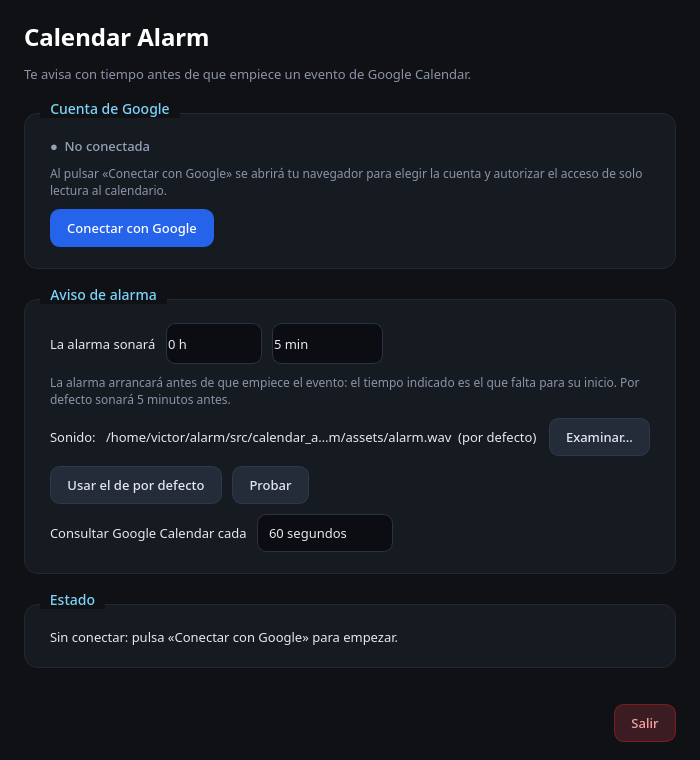
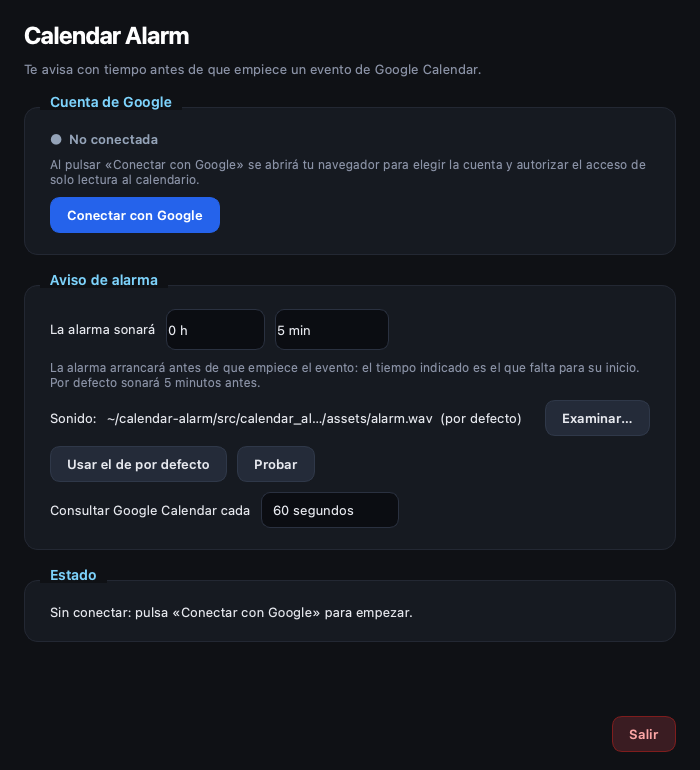
Preparar el repositorio para GitHub
- .gitattributes: finales de línea LF normalizados y binarios protegidos.
- CONTRIBUTING.md: entorno, tests (incluida mutación) y reglas para PRs.
- CHANGELOG.md con los cambios desde la 1.0.0.
- docs/main.png regenerada con la interfaz actual y sin rutas personales.
- BUILD.md: instrucciones para subir un repositorio que ya existe.
- README.md: enlaces a CONTRIBUTING y CHANGELOG.

diff --git a/CONTRIBUTING.md b/CONTRIBUTING.md
@@ -1,0 +1,49 @@
+# Contribuir a Calendar Alarm
+
+## Preparar el entorno
+
+Necesitas [uv](https://docs.astral.sh/uv/) (descarga Python 3.13 si no lo
+tienes):
+
+```bash
+uv sync                      # entorno + dependencias de desarrollo
+uv run calendar-alarm        # arrancar la app
+```
+
+Para conectar con Google en desarrollo necesitas un cliente OAuth de tipo
+*Aplicación de escritorio* guardado como `client_secret.json` en la raíz (está
+en `.gitignore`):
+
+```bash
+CALENDAR_ALARM_GOOGLE_CLIENT_FILE=client_secret.json uv run calendar-alarm
+```
+
+Usa `CALENDAR_ALARM_CONFIG_DIR=/tmp/calendar-alarm-dev` si no quieres tocar tu
+configuración ni tu sesión reales.
+
+## Antes de abrir un pull request
+
+```bash
+uv run ruff check src tests scripts packaging
+uv run ruff format src tests scripts packaging
+uv run pytest                # debe pasar entero
+uv run mutmut run            # si cambias lógica (Linux/macOS)
+```
+
+- Todo cambio de comportamiento lleva su test. La lógica sin interfaz va en
+  `tests/unit/`; las ventanas, en `tests/ui/`; el empaquetado, en
+  `tests/packaging/`. El apartado «Tests» del [README](README.md) explica cada
+  tipo.
+- Si `mutmut results` muestra un mutante nuevo que sobrevive, añade un test que
+  lo detecte o explica en el PR por qué es equivalente.
+- La app debe seguir funcionando en **Windows, Linux y macOS**: el workflow
+  `Tests` lo comprueba en los tres sistemas.
+- Si cambias el empaquetado, prueba `python packaging/build.py` en tu sistema y
+  lanza **Build executables** desde Actions para los demás.
+- Actualiza `README.md`, `BUILD.md` y `CHANGELOG.md` cuando cambie algo visible.
+
+## Seguridad
+
+Nunca subas `client_secret.json`, `token.json` ni `google_client.json`. Si
+encuentras un problema de seguridad, no abras un issue público: escribe al
+responsable del repositorio.

diff --git a/CHANGELOG.md b/CHANGELOG.md
@@ -1,0 +1,39 @@
+# Changelog
+
+Formato basado en [Keep a Changelog](https://keepachangelog.com/es-ES/1.1.0/).
+
+## [Sin publicar]
+
+### Añadido
+- Botón **Cancelar** mientras se espera la autorización de Google en el
+  navegador; la denegación del permiso se detecta al momento.
+- Suite de tests: unitarios, interfaz, integración, empaquetado y mutación
+  (`mutmut`), ejecutada en Linux, Windows y macOS por el workflow `Tests`.
+- Variable `CALENDAR_ALARM_CONFIG_DIR` para usar otro directorio de
+  configuración.
+- Opción `--use-pip` en `packaging/build.py`.
+
+### Cambiado
+- `packaging/build.py` usa uv cuando está instalado (más rápido, con caché) y,
+  en Windows, encuentra Python con el lanzador `py`.
+- La espera de autorización en el navegador caduca a los 5 minutos.
+
+### Corregido
+- macOS: ⌘Q y «Salir» del Dock no cerraban la aplicación.
+- Salir mientras había una consulta a Google o una conexión en curso podía
+  dejar la aplicación colgada.
+- El icono de la campana se dibujaba invertido.
+- Una sesión de Google caducada o revocada se mostraba como «sin eventos»; ahora
+  se avisa de que hay que volver a conectar.
+- Un evento movido a otra hora no volvía a avisar.
+- `token.json` era legible por otros usuarios en Linux/macOS (ahora `600`).
+- Compilación con un `pip.conf` que tiene `user = true`.
+- `hdiutil` fallaba a veces con «Resource busy» al crear el `.dmg`.
+- Ejecutables sin consola (`.exe`, `.app`) que podían cerrarse si una librería
+  escribía en `stdout`/`stderr`.
+
+## [1.0.0]
+
+Primera versión: alarmas de Google Calendar con margen configurable, sonido en
+bucle, aviso prominente, icono en la bandeja y ejecutables nativos para
+Windows, Linux y macOS.

diff --git a/BUILD.md b/BUILD.md
@@ -313,15 +313,17 @@ apartado «Tests» del [README](README.md).
 
 ## 7. Subir el proyecto a git
 
+El proyecto ya es un repositorio git. Crea un repositorio **vacío** en GitHub
+(sin README ni licencia, para no tener conflictos) y, desde la raíz del
+proyecto:
+
 ```bash
-cd /home/victor/alarm
-git init
-git add .
-git commit -m "Calendar Alarm: aplicación y empaquetado multiplataforma"
-git branch -M main
 git remote add origin https://github.com/TU-USUARIO/calendar-alarm.git
 git push -u origin main
 ```
+
+Al subirlo se ejecuta solo el workflow **Tests** en Linux, Windows y macOS.
+Antes de compilar con CI, crea los secrets de la sección 5.
 
 El `.gitignore` ya excluye `.venv/`, `build/`, `dist/`, cachés y credenciales
 (`token.json`, `client_secret*.json`, `google_client.json`). **Nunca subas

diff --git a/README.md b/README.md
@@ -317,6 +317,12 @@ CalendarWorker (hilo) ──events──▶ AlarmController ──señales──
 - **Linux (Wayland)**: la ventana de alarma usa `WindowStaysOnTopHint`;
   en gestores sin soporte puede no quedar siempre encima.
 
+## Contribuir
+
+Cómo preparar el entorno, pasar los tests y abrir un pull request:
+[CONTRIBUTING.md](CONTRIBUTING.md). Los cambios de cada versión están en
+[CHANGELOG.md](CHANGELOG.md).
+
 ## Licencia
 
 Este proyecto se distribuye bajo la licencia **MIT**. Consulta
